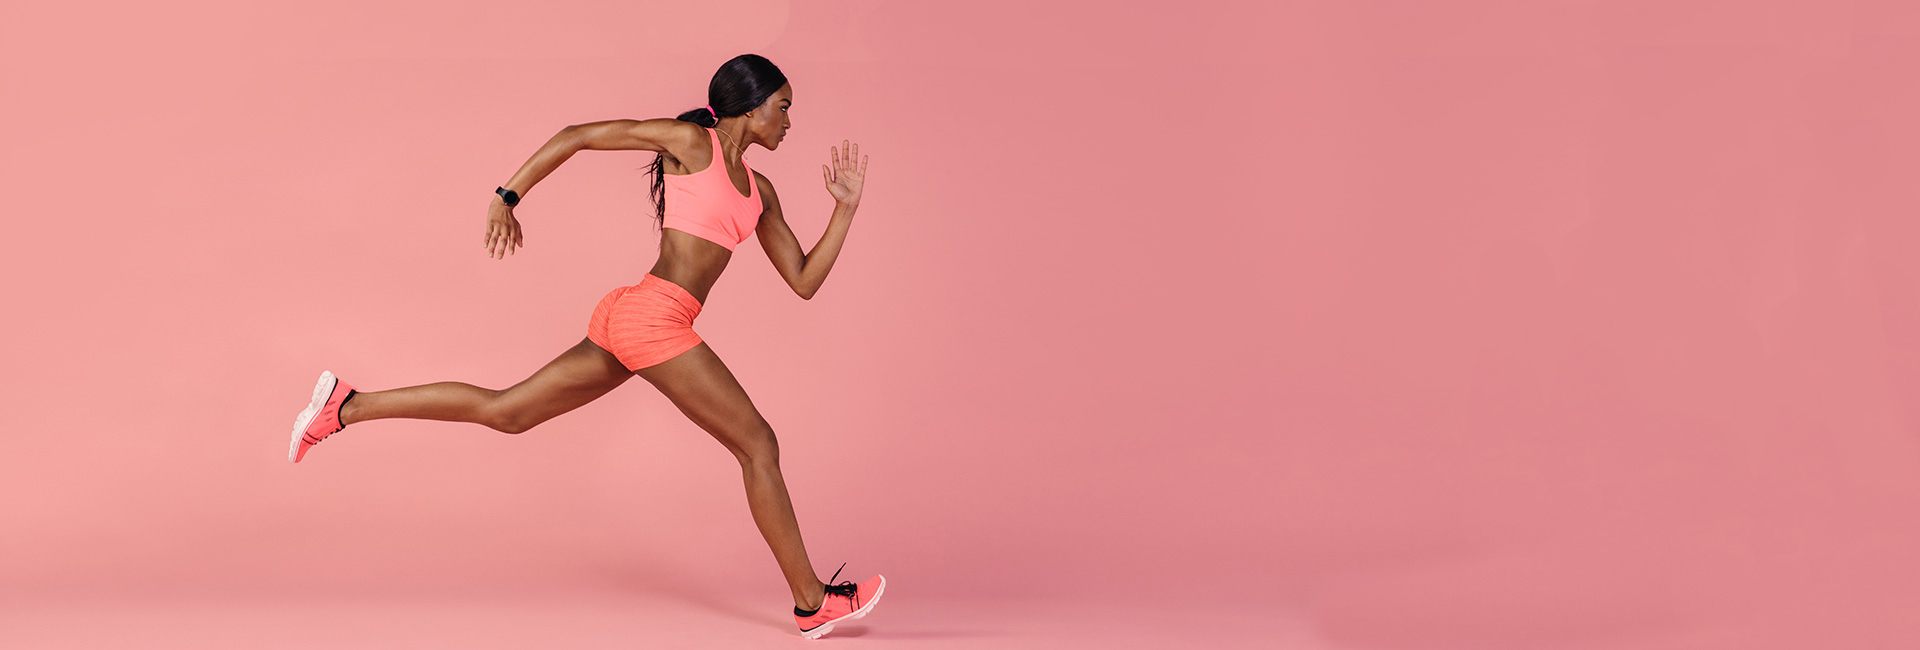
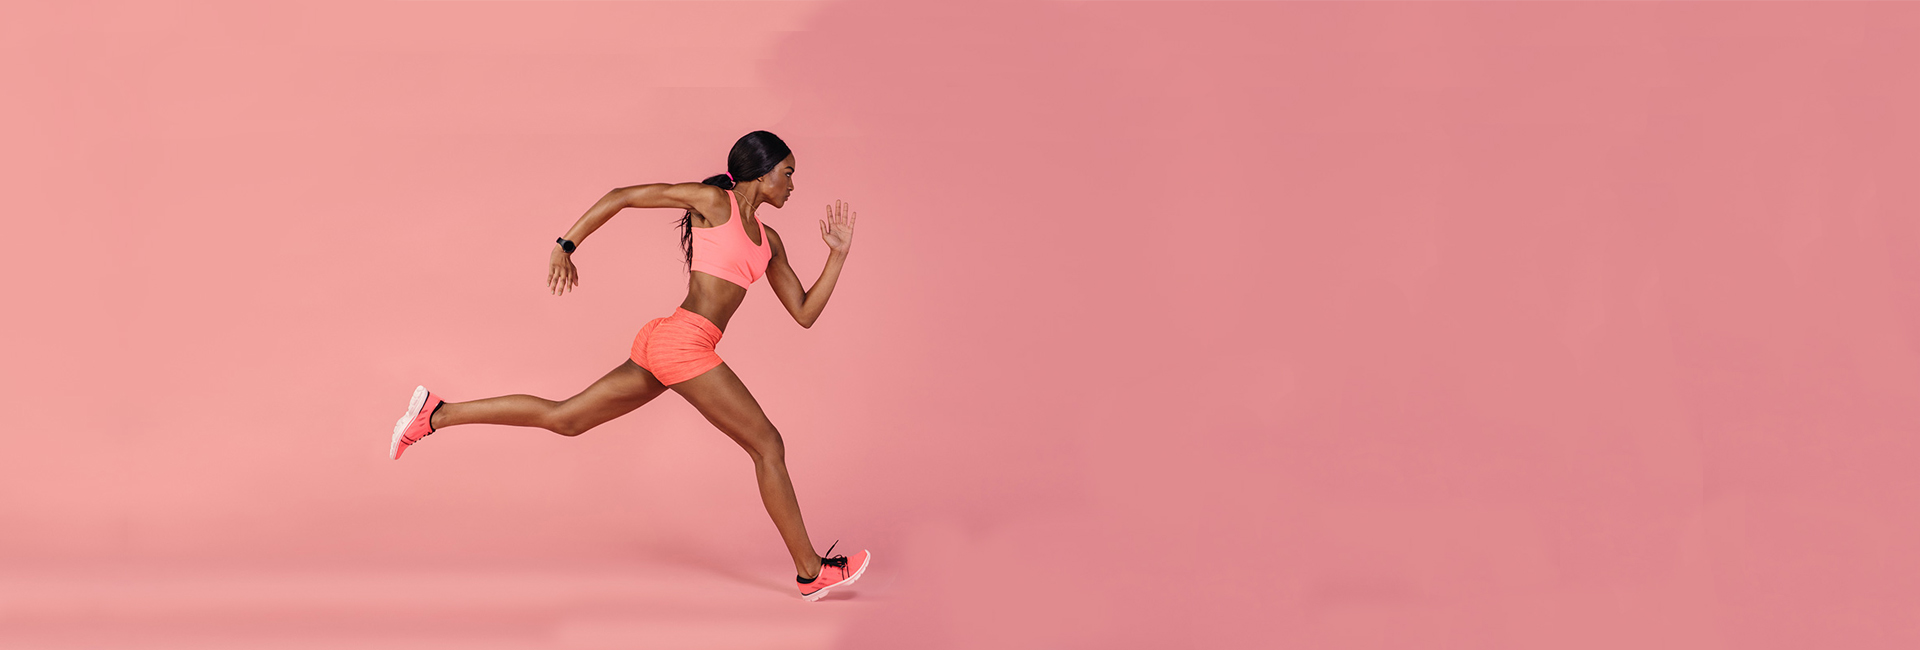
fix promo and consultation bg

Changed region(s): [[0.125, 0.0615, 0.5, 1.0], [0.3125, 0.8923, 0.375, 0.9231]]

diff --git a/src/css/style.min.css b/src/css/style.min.css
@@ -1,1 +1,1 @@
-@keyframes heartbeat{from{transform:scale(1)}50%{transform:scale(1.2)}to{transform:scale(1)}}*{font-family:"Museo Sans Cyrl",sans-serif}h1,h2{margin:0}.container{position:relative;max-width:1010px;margin:0 auto;padding:0 30px 0 30px}.promo{min-height:650px;padding:21px 0 93px 0;background:url(../img/main.jpeg) center center/cover no-repeat}.promo__wrapper{display:flex;flex-direction:column;align-items:flex-end;margin-top:90px}.promo__header{font-weight:700;font-size:42px;text-transform:uppercase;color:#fff;line-height:42px}.promo__subheader{margin-top:17px;color:#fff;font-size:24px;line-height:24px;font-weight:500;text-transform:uppercase}.promo__icons{margin-top:60px;max-width:425px;display:flex;flex-wrap:wrap;justify-content:space-between}.promo__icon{width:108px;text-align:center;color:#fff;font-size:14px;font-weight:500}.promo__icon img{display:block;margin:0 auto;margin-bottom:20px}.promo__link{font-weight:500;font-size:16px;color:#fff;margin-top:18px}.promo__link a{color:#fff;-webkit-text-decoration:uppercase;text-decoration:uppercase;text-decoration:underline}.header{display:flex;flex-wrap:wrap;justify-content:space-between;align-items:center}.header__logo{width:250px}.header__logo img{width:100%}.header__official{font-weight:500;font-size:12px;color:#fff;text-align:center}.header__official span{display:block;font-size:18px}.header__phone{display:block;text-decoration:none;font-weight:700;font-size:18px;color:#fff}.header__phone:hover{color:#fff}.header__contacts{display:flex;flex-direction:column;align-items:flex-end}.button{width:153px;height:32px;background:#c70101;border-radius:5px;border:none;font-weight:500;font-size:12px;text-transform:uppercase;color:#fff}.button_main{margin-top:67px;width:300px;height:50px;font-size:16px}.button_submit{width:100%;height:55px;font-size:16px}.button_mini{width:135px;height:44px;font-size:14px}.advantages{padding:70px 0 80px 0;background-color:#f6f6f6}.advantages__wrapper{margin-top:25px;display:flex;justify-content:space-evenly;flex-wrap:wrap}.advantages__item{display:flex;flex-direction:column;align-items:center;max-width:238px;margin:30px 20px 0 20px}.advantages__subtitle{margin-top:38px;color:#0d0d0d;font-size:18px;font-weight:700}.advantages__descr{margin-top:26px;color:#0d0d0d;font-size:14px;font-weight:300;text-align:center}.advantages__descr a{color:red;text-decoration:underline}.advantages__icon_animated{animation:heartbeat 1.5s ease infinite}.advantages__icon_animated:hover{animation-play-state:paused}.title{font-weight:700;font-size:30px;text-align:center;color:#0d0d0d;text-transform:uppercase}.title_left{font-size:36px;line-height:54px;color:#fff;text-align:left}@media(max-width:992px){.tns-item img{max-width:650px}.next,.prev{display:none}.tns-outer button{display:none}}@media(max-width:768px){.advantages__item:first-child{display:none}}@media(max-width:576px){.header{justify-content:space-around}.header__contacts{margin-top:20px}.tns-item img{max-width:350px}.catalog__tabs{flex-wrap:wrap}.catalog__tabs li{margin-top:10px}.reviews__item{flex-wrap:wrap;justify-content:center}.reviews__item__img{margin:0;margin-left:60px}.reviews__item__descr__name{text-align:center;margin-top:15px}.reviews__item__descr__subname{text-align:center}.reviews__item__descr__subname span{display:block;text-align:center}}.consultation{min-height:680px;padding:100px 0 92px 0;background:url(../img/consultation.jpeg) center center/cover no-repeat}.consultation__descr{font-weight:500;font-size:20px;line-height:30px;color:#fff}.consultation .error{border:1px solid red}.consultation label.error{color:#fff;border:none;text-align:center;margin-bottom:15px}.feed-form{margin-top:36px;display:flex;flex-direction:column;width:300px}.feed-form input{height:50px;border-radius:5px;background:#fff;margin-bottom:15px;bottom:none;padding:0 20px;font-weight:300;font-size:14px;color:#4b4b4b}.feed-form input:nth-child(3){margin-bottom:20px}.feed-form_mt25{margin:0 auto;margin-top:25px}.carousel{padding:81px 0}.carousel__inner{position:relative;width:750px;margin:0 auto}.carousel .next,.carousel .prev{position:absolute;top:50%;transform:translateY(-50%);left:-66px;border:none;background-color:#fff}.carousel .next img,.carousel .prev img{width:31px;height:50px}.carousel .next{right:-66px;left:auto}.carousel .tns-item img{display:block;margin:0 auto}.catalog{padding-bottom:60px}.catalog h2{margin-bottom:0}.catalog__tabs{margin-top:50px;list-style-type:none;display:flex;justify-content:center;align-items:center;margin-bottom:0;padding-left:0}.catalog__tab{width:222px;height:52px;border:2px solid #d0d0d0;font-weight:400;font-size:18px;line-height:50px;text-transform:uppercase;color:#6b6b6b;text-align:center;transform:skewX(-25deg);margin:0 5px;cursor:pointer;transition:.5s all}.catalog__tab:hover{box-shadow:3px 3px 20px #c70101;border:none}.catalog__tab div{transform:skewX(25deg)}.catalog__tab_active{background:#c70101;color:#fff;border:none}.catalog__content{margin-top:60px;display:none;justify-content:space-evenly;flex-wrap:wrap}.catalog__content_active{display:flex}.catalog-item{width:300px;min-height:440px;background:#fff;border:2px solid #e8e8e8;padding:20px 20px 26px 20px;overflow:hidden;margin-bottom:20px}.catalog-item__img{display:block;margin:0 auto;max-width:100%;height:200px}.catalog-item__subtitle{margin-top:15px;font-weight:700;font-size:16px;color:#0d0d0d;text-align:center}.catalog-item__descr{margin-top:15px;font-weight:300;font-size:14px;line-height:22px;text-align:center;color:#0d0d0d}.catalog-item__link{display:block;margin-top:10px;font-weight:500;font-size:14px;text-align:center;text-decoration-line:underline;color:#c70101}.catalog-item__link:hover{color:#c70101}.catalog-item hr{background-color:#e8e8e8;margin:17px 0 17px 0;border-bottom:none}.catalog-item__footer{display:flex;justify-content:space-between;align-items:center}.catalog-item__old-price{font-weight:300;font-size:14px;text-decoration-line:line-through;color:#555}.catalog-item__price{font-weight:700;font-size:20px;color:#050505}.catalog-item__wrapper{display:flex;width:calc(200% + 40px)}.catalog-item__content{width:50%;margin-right:0;transform:translateX(-100%);transition:.5s all}.catalog-item__content_active{transform:translateX(0);margin-right:20px}.catalog-item__list{position:relative;width:50%;margin-left:20px;margin-bottom:0;transform:translateX(0);padding-right:20px;padding-left:19px;transition:.5s all;list-style-type:none}.catalog-item__list_active{transform:translateX(-100%);margin-left:0}.catalog-item__list li{position:relative;margin-bottom:20px;font-weight:300;font-size:14px;line-height:21px;color:#555}.catalog-item__list li::before{content:"";position:absolute;width:5px;height:5px;background-color:#c70101;left:-14px;top:8px}.catalog-item__back{position:absolute;bottom:0;left:50%;transform:translateX(calc(-50% - 19px));display:block;font-weight:500;font-size:14px;line-height:14px;text-decoration:underline;text-transform:uppercase;color:#c70101}.catalog-item__back:hover{color:#c70101}.reviews{min-height:1050px}.reviews .title{margin-bottom:60px}.reviews__item{margin-bottom:60px;display:flex;flex-direction:row}.reviews__item img{width:169px;height:169px;margin-right:60px}.reviews__item__descr{max-width:680px}.reviews__item__descr__name{font-weight:700;font-size:18px;color:#0d0d0d}.reviews__item__descr__subname{font-weight:300;font-size:16px;line-height:24px;color:#0d0d0d}.reviews__item__descr__subname span{font-weight:500;font-size:14px;color:#646464}.footer{height:630px;position:relative}.footer__info{position:absolute;top:0;left:50%;transform:translateX(-50%);max-width:460px;height:270px;background:#c70101;padding:50px 54px 56px 54px}.footer__addr{margin-bottom:36px;font-weight:500;font-size:20px;color:#fff;text-align:center;line-height:20px}.footer__phone{margin-bottom:38px;line-height:20px;display:block;font-weight:700;font-size:20px;color:#fff;text-align:center;text-decoration:none}.footer__phone:hover{color:#fff}.footer__social-item{display:flex;justify-content:center;align-items:center;width:52px;height:52px;background:rgba(0,0,0,.0001);border:2px solid #fff;border-radius:100%;margin:0 15px}.footer__social-item img{height:27px}.footer__social{display:flex;justify-content:center;align-items:center}.footer iframe{width:100%;height:630px;border:0}.overlay{display:none;position:fixed;width:100%;height:100%;top:0;background:rgba(0,0,0,.4);mix-blend-mode:normal}.modal{position:absolute;top:50%;left:50%;transform:translate(-50%,-50%);width:382px;min-height:402px;background:#f2f2f2;padding:35px 26px 40px 26px;text-align:center}.modal__close{position:absolute;top:0;right:-40px;font-size:41px;line-height:21px;color:#c70101;cursor:pointer}.modal__subtitle{font-weight:700;font-size:19px;color:#0d0d0d}.modal__descr{font-weight:500;font-size:14px;color:#0d0d0d}.modal_mini{min-height:140px}.modal .error{border:1px solid red}.modal label.error{border:none;text-align:center;margin-bottom:15px}#consultation,#order,#thanks{display:none}.pageup{display:none;display:block;position:fixed;bottom:40px;right:40px;width:40px;height:40px}.pageup img{width:100%}
+@keyframes heartbeat{from{transform:scale(1)}50%{transform:scale(1.2)}to{transform:scale(1)}}*{font-family:"Museo Sans Cyrl",sans-serif}h1,h2{margin:0}.container{position:relative;max-width:1010px;margin:0 auto;padding:0 30px 0 30px}.promo{position:relative;min-height:650px;padding:21px 0 93px 0;background:url(../img/main.jpeg) center center/cover no-repeat}.promo__wrapper{display:flex;flex-direction:column;align-items:flex-end;margin-top:90px}.promo__header{font-weight:700;font-size:42px;text-transform:uppercase;color:#fff;line-height:42px}.promo__subheader{margin-top:17px;color:#fff;font-size:24px;line-height:24px;font-weight:500;text-transform:uppercase}.promo__icons{margin-top:60px;max-width:425px;display:flex;flex-wrap:wrap;justify-content:space-between}.promo__icon{width:108px;text-align:center;color:#fff;font-size:14px;font-weight:500}.promo__icon img{display:block;margin:0 auto;margin-bottom:20px}.promo__link{font-weight:500;font-size:16px;color:#fff;margin-top:18px}.promo__link a{color:#fff;-webkit-text-decoration:uppercase;text-decoration:uppercase;text-decoration:underline}.header{display:flex;flex-wrap:wrap;justify-content:space-between;align-items:center}.header__logo{width:250px}.header__logo img{width:100%}.header__official{font-weight:500;font-size:12px;color:#fff;text-align:center}.header__official span{display:block;font-size:18px}.header__phone{display:block;text-decoration:none;font-weight:700;font-size:18px;color:#fff}.header__phone:hover{color:#fff}.header__contacts{display:flex;flex-direction:column;align-items:flex-end}.button{width:153px;height:32px;background:#c70101;border-radius:5px;border:none;font-weight:500;font-size:12px;text-transform:uppercase;color:#fff}.button_main{margin-top:67px;width:300px;height:50px;font-size:16px}.button_submit{width:100%;height:55px;font-size:16px}.button_mini{width:135px;height:44px;font-size:14px}.advantages{padding:70px 0 80px 0;background-color:#f6f6f6}.advantages__wrapper{margin-top:25px;display:flex;justify-content:space-evenly;flex-wrap:wrap}.advantages__item{display:flex;flex-direction:column;align-items:center;max-width:238px;margin:30px 20px 0 20px}.advantages__subtitle{margin-top:38px;color:#0d0d0d;font-size:18px;font-weight:700}.advantages__descr{margin-top:26px;color:#0d0d0d;font-size:14px;font-weight:300;text-align:center}.advantages__descr a{color:red;text-decoration:underline}.advantages__icon_animated{animation:heartbeat 1.5s ease infinite}.advantages__icon_animated:hover{animation-play-state:paused}.title{font-weight:700;font-size:30px;text-align:center;color:#0d0d0d;text-transform:uppercase}.title_left{font-size:36px;line-height:54px;color:#fff;text-align:left}@media(max-width:992px){.tns-item img{max-width:650px}.next,.prev{display:none}.tns-outer button{display:none}}@media(max-width:768px){.advantages__item:first-child{display:none}}@media(max-width:576px){.header{justify-content:space-around}.header__contacts{margin-top:20px}.tns-item img{max-width:350px}.catalog__tabs{flex-wrap:wrap}.catalog__tabs li{margin-top:10px}.reviews__item{flex-wrap:wrap;justify-content:center}.reviews__item__img{margin:0;margin-left:60px}.reviews__item__descr__name{text-align:center;margin-top:15px}.reviews__item__descr__subname{text-align:center}.reviews__item__descr__subname span{display:block;text-align:center}}.consultation{min-height:680px;padding:100px 0 92px 0;background:url(../img/consultation.jpeg) center center/cover no-repeat}.consultation__descr{font-weight:500;font-size:20px;line-height:30px;color:#fff}.consultation .error{border:1px solid red}.consultation label.error{color:#fff;border:none;text-align:center;margin-bottom:15px}.feed-form{margin-top:36px;display:flex;flex-direction:column;width:300px}.feed-form input{height:50px;border-radius:5px;background:#fff;margin-bottom:15px;bottom:none;padding:0 20px;font-weight:300;font-size:14px;color:#4b4b4b}.feed-form input:nth-child(3){margin-bottom:20px}.feed-form_mt25{margin:0 auto;margin-top:25px}.carousel{padding:81px 0}.carousel__inner{position:relative;width:750px;margin:0 auto}.carousel .next,.carousel .prev{position:absolute;top:50%;transform:translateY(-50%);left:-66px;border:none;background-color:#fff}.carousel .next img,.carousel .prev img{width:31px;height:50px}.carousel .next{right:-66px;left:auto}.carousel .tns-item img{display:block;margin:0 auto}.catalog{padding-bottom:60px}.catalog h2{margin-bottom:0}.catalog__tabs{margin-top:50px;list-style-type:none;display:flex;justify-content:center;align-items:center;margin-bottom:0;padding-left:0}.catalog__tab{width:222px;height:52px;border:2px solid #d0d0d0;font-weight:400;font-size:18px;line-height:50px;text-transform:uppercase;color:#6b6b6b;text-align:center;transform:skewX(-25deg);margin:0 5px;cursor:pointer;transition:.5s all}.catalog__tab:hover{box-shadow:3px 3px 20px #c70101;border:none}.catalog__tab div{transform:skewX(25deg)}.catalog__tab_active{background:#c70101;color:#fff;border:none}.catalog__content{margin-top:60px;display:none;justify-content:space-evenly;flex-wrap:wrap}.catalog__content_active{display:flex}.catalog-item{width:300px;min-height:440px;background:#fff;border:2px solid #e8e8e8;padding:20px 20px 26px 20px;overflow:hidden;margin-bottom:20px}.catalog-item__img{display:block;margin:0 auto;max-width:100%;height:200px}.catalog-item__subtitle{margin-top:15px;font-weight:700;font-size:16px;color:#0d0d0d;text-align:center}.catalog-item__descr{margin-top:15px;font-weight:300;font-size:14px;line-height:22px;text-align:center;color:#0d0d0d}.catalog-item__link{display:block;margin-top:10px;font-weight:500;font-size:14px;text-align:center;text-decoration-line:underline;color:#c70101}.catalog-item__link:hover{color:#c70101}.catalog-item hr{background-color:#e8e8e8;margin:17px 0 17px 0;border-bottom:none}.catalog-item__footer{display:flex;justify-content:space-between;align-items:center}.catalog-item__old-price{font-weight:300;font-size:14px;text-decoration-line:line-through;color:#555}.catalog-item__price{font-weight:700;font-size:20px;color:#050505}.catalog-item__wrapper{display:flex;width:calc(200% + 40px)}.catalog-item__content{width:50%;margin-right:0;transform:translateX(-100%);transition:.5s all}.catalog-item__content_active{transform:translateX(0);margin-right:20px}.catalog-item__list{position:relative;width:50%;margin-left:20px;margin-bottom:0;transform:translateX(0);padding-right:20px;padding-left:19px;transition:.5s all;list-style-type:none}.catalog-item__list_active{transform:translateX(-100%);margin-left:0}.catalog-item__list li{position:relative;margin-bottom:20px;font-weight:300;font-size:14px;line-height:21px;color:#555}.catalog-item__list li::before{content:"";position:absolute;width:5px;height:5px;background-color:#c70101;left:-14px;top:8px}.catalog-item__back{position:absolute;bottom:0;left:50%;transform:translateX(calc(-50% - 19px));display:block;font-weight:500;font-size:14px;line-height:14px;text-decoration:underline;text-transform:uppercase;color:#c70101}.catalog-item__back:hover{color:#c70101}.reviews{min-height:1050px}.reviews .title{margin-bottom:60px}.reviews__item{margin-bottom:60px;display:flex;flex-direction:row}.reviews__item img{width:169px;height:169px;margin-right:60px}.reviews__item__descr{max-width:680px}.reviews__item__descr__name{font-weight:700;font-size:18px;color:#0d0d0d}.reviews__item__descr__subname{font-weight:300;font-size:16px;line-height:24px;color:#0d0d0d}.reviews__item__descr__subname span{font-weight:500;font-size:14px;color:#646464}.footer{height:630px;position:relative}.footer__info{position:absolute;top:0;left:50%;transform:translateX(-50%);max-width:460px;height:270px;background:#c70101;padding:50px 54px 56px 54px}.footer__addr{margin-bottom:36px;font-weight:500;font-size:20px;color:#fff;text-align:center;line-height:20px}.footer__phone{margin-bottom:38px;line-height:20px;display:block;font-weight:700;font-size:20px;color:#fff;text-align:center;text-decoration:none}.footer__phone:hover{color:#fff}.footer__social-item{display:flex;justify-content:center;align-items:center;width:52px;height:52px;background:rgba(0,0,0,.0001);border:2px solid #fff;border-radius:100%;margin:0 15px}.footer__social-item img{height:27px}.footer__social{display:flex;justify-content:center;align-items:center}.footer iframe{width:100%;height:630px;border:0}.overlay{display:none;position:fixed;width:100%;height:100%;top:0;background:rgba(0,0,0,.4);mix-blend-mode:normal}.modal{position:absolute;top:50%;left:50%;transform:translate(-50%,-50%);width:382px;min-height:402px;background:#f2f2f2;padding:35px 26px 40px 26px;text-align:center}.modal__close{position:absolute;top:0;right:-40px;font-size:41px;line-height:21px;color:#c70101;cursor:pointer}.modal__subtitle{font-weight:700;font-size:19px;color:#0d0d0d}.modal__descr{font-weight:500;font-size:14px;color:#0d0d0d}.modal_mini{min-height:140px}.modal .error{border:1px solid red}.modal label.error{border:none;text-align:center;margin-bottom:15px}#consultation,#order,#thanks{display:none}.pageup{display:none;display:block;position:fixed;bottom:40px;right:40px;width:40px;height:40px}.pageup img{width:100%}

diff --git a/src/index.html b/src/index.html
@@ -15,46 +15,46 @@
 
     <section class="promo" id="up">
         <div class="container">
-            <header class="header">
-                <a href="#" class="header__logo">
-                    <img src="icons/logo.png" alt="logo">
-                </a>
-                <div class="header__official">
-                    Официальный представитель
-                    <span>Garmin, Polar, Suunto</span>
-                </div>
-                <div class="header__contacts">
-                    <a href="tel::+74999228974" class="header__phone">+7 (499) 922-89-74</a>
-                    <button data-modal="consultation" class="button">заказать звонок</button>
-                </div>
-            </header>
-            <div class="promo__wrapper">
-                <h1 class="promo__header">Подбор пульсометра</h1>
-                <h2 class="promo__subheader">с учётом Вашего уровня подготовки</h2>
-
-                <div class="promo__icons">
-                    <div class="promo__icon">
-                        <img src="icons/main_screen/timer.png" alt="timer">
-                        Время подбора:
-                        10 минут
+                <header class="header">
+                    <a href="#" class="header__logo">
+                        <img src="icons/logo.png" alt="logo">
+                    </a>
+                    <div class="header__official">
+                        Официальный представитель
+                        <span>Garmin, Polar, Suunto</span>
                     </div>
-                    <div class="promo__icon">
-                        <img src="icons/main_screen/hand-cart.png" alt="hand-cart">
-                        Бесплатная
-                        доставка
+                    <div class="header__contacts">
+                        <a href="tel::+74999228974" class="header__phone">+7 (499) 922-89-74</a>
+                        <button data-modal="consultation" class="button">заказать звонок</button>
                     </div>
-                    <div class="promo__icon">
-                        <img src="icons/main_screen/messages.png" alt="messages">
-                        Ответим
-                        на все вопросы
+                </header>
+                <div class="promo__wrapper">
+                    <h1 class="promo__header">Подбор пульсометра</h1>
+                    <h2 class="promo__subheader">с учётом Вашего уровня подготовки</h2>
+    
+                    <div class="promo__icons">
+                        <div class="promo__icon">
+                            <img src="icons/main_screen/timer.png" alt="timer">
+                            Время подбора:
+                            10 минут
+                        </div>
+                        <div class="promo__icon">
+                            <img src="icons/main_screen/hand-cart.png" alt="hand-cart">
+                            Бесплатная
+                            доставка
+                        </div>
+                        <div class="promo__icon">
+                            <img src="icons/main_screen/messages.png" alt="messages">
+                            Ответим
+                            на все вопросы
+                        </div>
+                    </div>
+                    <button data-modal="consultation" class="button button_main">заказать кОНСУЛЬТАЦИЮ</button>
+                    <div class="promo__link">
+                        или
+                        <a href="#">ПЕРЕЙТИ В КАТАЛОГ</a>
                     </div>
                 </div>
-                <button data-modal="consultation" class="button button_main">заказать кОНСУЛЬТАЦИЮ</button>
-                <div class="promo__link">
-                    или
-                    <a href="#">ПЕРЕЙТИ В КАТАЛОГ</a>
-                </div>
-            </div>
         </div>
     </section>
 

diff --git a/src/sass/blocks/_promo.scss b/src/sass/blocks/_promo.scss
@@ -1,7 +1,20 @@
 .promo {
+    position: relative;
     min-height: 650px;
     padding: 21px 0 93px 0;
     background: url(../img/main.jpeg) center (center/cover) no-repeat;
+/*         &:after {
+            content: '';
+            position: absolute;
+            top: 0;
+            left: 0; 
+            right: 0;
+            bottom: 0;
+            background: rgba(0,0, 0,.3); z-index: 2;
+        }
+    .container {
+        z-index: 3;
+    } */
     &__wrapper {
         display: flex;
         flex-direction: column;
